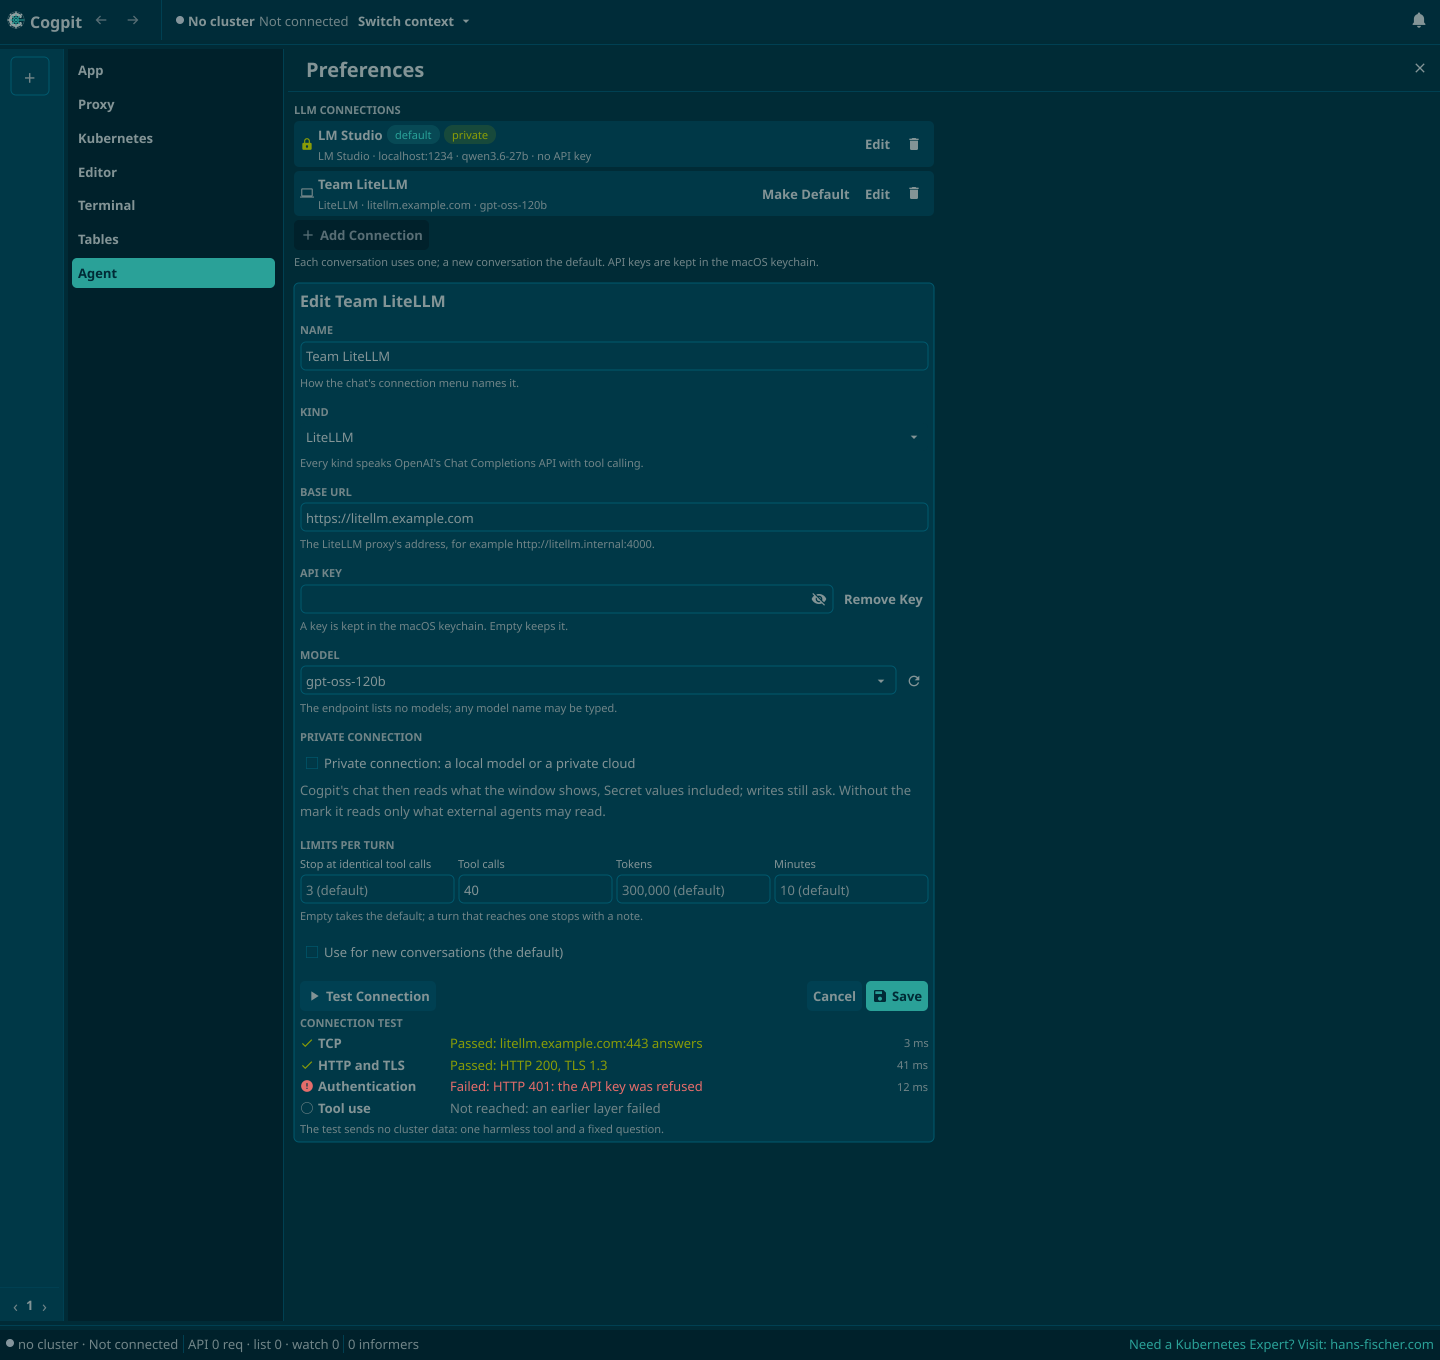
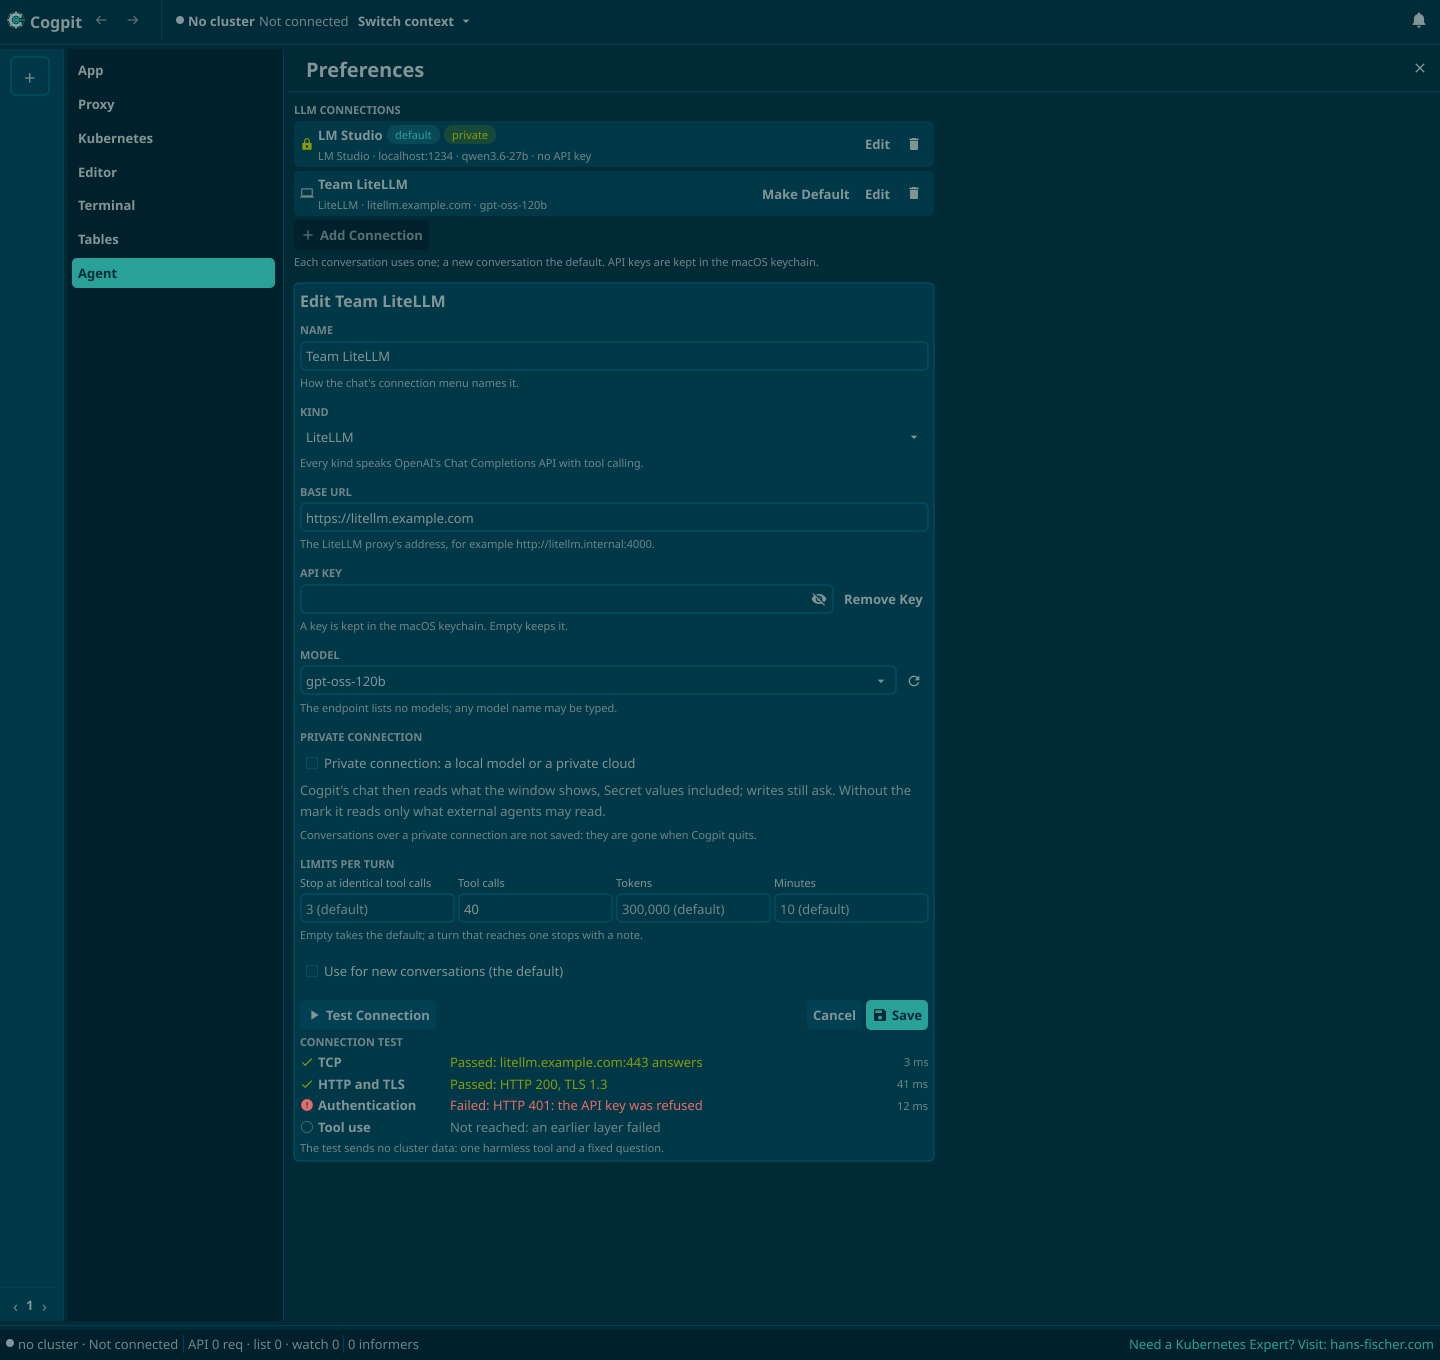
feat(ui): say that a private connection's conversations are not saved (H-96)
Preferences › Agent shows a hint under the private connection's mark:
"Conversations over a private connection are not saved: they are gone
when Cogpit quits." The chat's history marks a private conversation
"not saved", since the list otherwise reads as the kept conversations;
Clear all no longer says "kept". Renders: preferences_agent and the new
chat_history, dark and light.

(cherry picked from commit eb13ed3c94c00caa111448f4f45a171e66db822a)

diff --git a/internal/ui/fyneui/chat_test.go b/internal/ui/fyneui/chat_test.go
@@ -483,6 +483,30 @@ func TestChatHistory(t *testing.T) {
 	})
 }
 
+// TestChatHistoryMarksUnsaved (H-96): a private conversation, which lives in memory only, says so
+// in the history; a kept one does not.
+func TestChatHistoryMarksUnsaved(t *testing.T) {
+	sh, _, q, _, _ := chatScene(t, ThemeDark, func(ch *fakeChat) string {
+		ch.add("demo", "Kept", engine.ChatItem{Kind: engine.ChatItemUser, Text: "one", Sent: &engine.ChatSent{Endpoint: "litellm.example.com"}})
+		return ch.add("demo", "Private", engine.ChatItem{Kind: engine.ChatItemUser, Text: "two", Sent: &engine.ChatSent{Endpoint: "localhost:1234", Private: true}})
+	})
+	test.Tap(sh.chat.historyB)
+	q.until(t, "the history", func() bool { return sh.chat.history != nil && len(sh.chat.histRows) == 2 })
+	texts := func(id string) string {
+		var out []string
+		for _, l := range findAll[*textLine](sh.chat.histRows[id]) {
+			out = append(out, l.text)
+		}
+		return strings.Join(out, "|")
+	}
+	if got := texts("conv-2"); !strings.Contains(got, historyNotSaved+" · ") {
+		t.Errorf("the private conversation's row %q does not say it is not saved", got)
+	}
+	if got := texts("conv-1"); strings.Contains(got, historyNotSaved) {
+		t.Errorf("the kept conversation's row %q says it is not saved", got)
+	}
+}
+
 // TestChatStreamingStaysCheap streams a 2,000-token answer in 10-token deltas (about 8 KiB in 200
 // steps): each step lays out the answer's last block only, never the other items, and the window's
 // work per step stays far below a frame.
@@ -726,6 +750,24 @@ func TestRenderChatConversation(t *testing.T) {
 					sh.chat.scroll.ScrollToTop()
 					sh.chat.updatePin()
 				})
+		})
+	}
+}
+
+// TestRenderChatHistory: the history of the cluster's conversations: the shown one (private, its
+// turns ran over the local connection) bold and marked not saved, two kept ones.
+func TestRenderChatHistory(t *testing.T) {
+	for _, mode := range []ThemeMode{ThemeDark, ThemeLight} {
+		t.Run(string(mode), func(t *testing.T) {
+			renderChat(t, mode, "chat_history", func(ch *fakeChat) string {
+				team := &engine.ChatSent{Requests: 1, Endpoint: "litellm.example.com"}
+				ch.add("demo", "How many pods run in payments?", engine.ChatItem{Kind: engine.ChatItemUser, Text: "How many pods run in payments?", Sent: team})
+				ch.add("demo", "Which images does ledger-writer run?", engine.ChatItem{Kind: engine.ChatItemUser, Text: "Which images does ledger-writer run?", Sent: team})
+				return demoConversation(ch, "demo")
+			}, func(sh *shell, w fyne.Window, q *mainQueue) {
+				test.Tap(sh.chat.historyB)
+				q.until(t, "the history", func() bool { return sh.chat.history != nil && len(sh.chat.histRows) == 3 })
+			})
 		})
 	}
 }

diff --git a/internal/ui/fyneui/preferences_agent.go b/internal/ui/fyneui/preferences_agent.go
@@ -25,9 +25,10 @@ import (
 // a connection is added, edited, made the default or deleted here. The form: name, kind (which
 // prefills LM Studio's usual base URL), base URL, API key (kept in the operating system's keychain:
 // empty keeps the stored key, "Remove key" removes it), model (the endpoint's list, any name may be
-// typed), the private connection's mark with what it unlocks, the four limits of a turn with their
-// defaults, and "use as default"; Test connection checks the form's values layer by layer (TCP,
-// HTTP and TLS, authentication, tool use) and shows each layer as it ends.
+// typed), the private connection's mark with what it unlocks and the hint that its conversations
+// are not saved (H-96), the four limits of a turn with their defaults, and "use as default"; Test
+// connection checks the form's values layer by layer (TCP, HTTP and TLS, authentication, tool use)
+// and shows each layer as it ends.
 //
 // Only the user edits this page. Its controls call the window's ChatAgent directly; none is a
 // command, so no agent can reach them (an agent must never mark a connection private, which loosens
@@ -76,6 +77,9 @@ const (
 	privateCheckText = "Private connection: a local model or a private cloud"
 	privateHelp      = "Cogpit's chat then reads what the window shows, Secret values included; writes still ask. " +
 		"Without the mark it reads only what external agents may read."
+	// privateNotKept is the setting's hint (H-96): a conversation in which a turn ran over a private
+	// connection is never saved (agent/conversation.go has the rule).
+	privateNotKept = "Conversations over a private connection are not saved: they are gone when Cogpit quits."
 )
 
 // agentPrefs is the Agent section's state.
@@ -398,7 +402,7 @@ func newAgentForm(a *agentPrefs, c engine.ChatConnection) *agentForm {
 		p.setting("agentBaseURL", "Base URL", "", container.NewVBox(f.baseURL, f.urlHint)),
 		p.setting("agentKey", "API key", "", container.NewVBox(container.NewBorder(nil, nil, nil, f.removeKey, f.key), f.keyHelp)),
 		p.setting("agentModel", "Model", "", container.NewVBox(container.NewBorder(nil, nil, nil, f.modelsB, f.model), f.modelNote)),
-		p.setting("agentPrivate", "Private connection", "", container.NewVBox(f.private,
+		p.setting("agentPrivate", "Private connection", privateNotKept, container.NewVBox(f.private,
 			newParagraph(privateHelp, colorMuted, settingsColumn-4*p.sh.app.Settings().Theme().Size(theme.SizeNameInnerPadding)))),
 		p.setting("agentLimits", "Limits per turn", "Empty takes the default; a turn that reaches one stops with a note.",
 			container.NewGridWithColumns(4, grid...)),

diff --git a/internal/ui/fyneui/chat.go b/internal/ui/fyneui/chat.go
@@ -638,7 +638,11 @@ func (c *chatPanel) showMenu(m *fyne.Menu, pos fyne.Position) {
 	pm.ShowAtPosition(pos)
 }
 
-// showHistory lists the kept conversations of the cluster: open one, delete one, or clear them.
+// historyNotSaved marks a private conversation in the history: it lives in memory only (H-96).
+const historyNotSaved = "not saved"
+
+// showHistory lists the conversations of the cluster, the kept ones and the private ones of this
+// run: open one, delete one, or clear them.
 func (c *chatPanel) showHistory() {
 	ctx := c.sh.ui.Context
 	if ctx == "" && c.conv != nil {
@@ -680,8 +684,9 @@ func (c *chatPanel) showHistoryList(ctx string, list []engine.ChatConversationIn
 	c.history.ShowAtPosition(fyne.NewPos(pos.X+c.historyB.Size().Width-width-th.Size(theme.SizeNameInnerPadding), pos.Y+c.historyB.Size().Height))
 }
 
-// historyRow is one conversation of the history: its title and age (a running turn says so), the
-// shown one bold; a click opens it, × deletes it.
+// historyRow is one conversation of the history: its title and age (a running turn says so, and a
+// private conversation that it is not saved, H-96), the shown one bold; a click opens it, ×
+// deletes it.
 func (c *chatPanel) historyRow(info engine.ChatConversationInfo) fyne.CanvasObject {
 	title := info.Title
 	if title == "" {
@@ -690,6 +695,9 @@ func (c *chatPanel) historyRow(info engine.ChatConversationInfo) fyne.CanvasObje
 	t := newTextLine(title, theme.ColorNameForeground, theme.SizeNameText, fyne.TextStyle{Bold: info.ID == c.convID})
 	t.truncate = true
 	when := formatAgo(c.sh.now().Sub(info.Updated))
+	if info.Private {
+		when = historyNotSaved + " · " + when
+	}
 	if info.Running {
 		when = "running · " + when
 	}
@@ -729,7 +737,7 @@ func (c *chatPanel) confirmClear(ctx string, n int) {
 	c.closePopups()
 	name := c.sh.identity(ctx).name
 	d := dialog.NewConfirm("Delete "+pluralOf(n, "conversation")+"?",
-		"Every kept conversation about "+name+" is deleted. This cannot be undone.", func(ok bool) {
+		"Every conversation about "+name+" is deleted. This cannot be undone.", func(ok bool) {
 			if !ok {
 				return
 			}

diff --git a/internal/ui/fyneui/preferences_agent_test.go b/internal/ui/fyneui/preferences_agent_test.go
@@ -6,7 +6,9 @@ import (
 	"time"
 
 	"fyne.io/fyne/v2"
+	"fyne.io/fyne/v2/canvas"
 	"fyne.io/fyne/v2/test"
+	"fyne.io/fyne/v2/theme"
 
 	"github.com/guided-traffic/cogpit/internal/engine"
 )
@@ -107,6 +109,36 @@ func TestAgentPreferencesKeySemantics(t *testing.T) {
 	if got.key != nil || got.conn.ID != "" || got.conn.Kind != engine.ChatLMStudio || got.conn.BaseURL != "http://localhost:1234/v1" ||
 		!got.conn.Private || got.conn.Limits.MaxToolCalls != 40 || got.conn.Limits.MaxTokens != 120_000 || got.conn.Limits.RepeatStop != 0 {
 		t.Errorf("the new connection was saved as %+v with key %v", got.conn, got.key)
+	}
+}
+
+// TestAgentPreferencesPrivateHint (H-96): under the private connection's mark the form says that
+// conversations over a private connection are not saved: a hint in the settings' style (a muted
+// caption line under the setting), whole at the form's width, between the mark and the limits.
+func TestAgentPreferencesPrivateHint(t *testing.T) {
+	sh, w, _, _ := agentPrefsShell(t, ThemeDark)
+	a := sh.settings.agent
+	a.edit(litellm())
+	settle(w)
+	var hint *textLine
+	for _, l := range findAll[*textLine](a.form.root) {
+		if l.text == privateNotKept {
+			hint = l
+		}
+	}
+	if hint == nil || !hint.Visible() {
+		t.Fatalf("the form has no visible hint %q", privateNotKept)
+	}
+	if hint.color != colorMuted || hint.size != theme.SizeNameCaptionText {
+		t.Errorf("the hint is drawn in %s at %s, want the settings' hint style", hint.color, hint.size)
+	}
+	if shown := test.WidgetRenderer(hint).Objects()[0].(*canvas.Text).Text; shown != privateNotKept {
+		t.Errorf("the hint is shortened to %q", shown)
+	}
+	d := fyne.CurrentApp().Driver()
+	y := d.AbsolutePositionForObject(hint).Y
+	if y <= d.AbsolutePositionForObject(a.form.private).Y || y >= d.AbsolutePositionForObject(a.form.limits[0]).Y {
+		t.Errorf("the hint at y %v is not between the private mark and the limits", y)
 	}
 }
 

diff --git a/internal/ui/fyneui/chat_fake_test.go b/internal/ui/fyneui/chat_fake_test.go
@@ -121,7 +121,8 @@ func (c *fakeChat) emit(id string) {
 
 // --- scripting ---
 
-// add keeps a conversation of ctx with items; it is the newest.
+// add keeps a conversation of ctx with items; it is the newest. As the agent's, it is private
+// (memory only, H-96) when a user item's turn ran over a private connection.
 func (c *fakeChat) add(ctx, title string, items ...engine.ChatItem) string {
 	c.mu.Lock()
 	c.seq++
@@ -130,8 +131,9 @@ func (c *fakeChat) add(ctx, title string, items ...engine.ChatItem) string {
 	if len(c.conns) > 0 {
 		conn = c.conns[0].ID
 	}
+	private := slices.ContainsFunc(items, func(it engine.ChatItem) bool { return it.Sent != nil && it.Sent.Private })
 	c.convs[id] = &engine.ChatConversation{ChatConversationInfo: engine.ChatConversationInfo{ID: id, Title: title, Context: ctx,
-		ConnectionID: conn, Updated: c.now.Add(time.Duration(c.seq) * time.Minute)}, Revision: 1, Items: items}
+		ConnectionID: conn, Updated: c.now.Add(time.Duration(c.seq) * time.Minute), Private: private}, Revision: 1, Items: items}
 	c.mu.Unlock()
 	return id
 }
